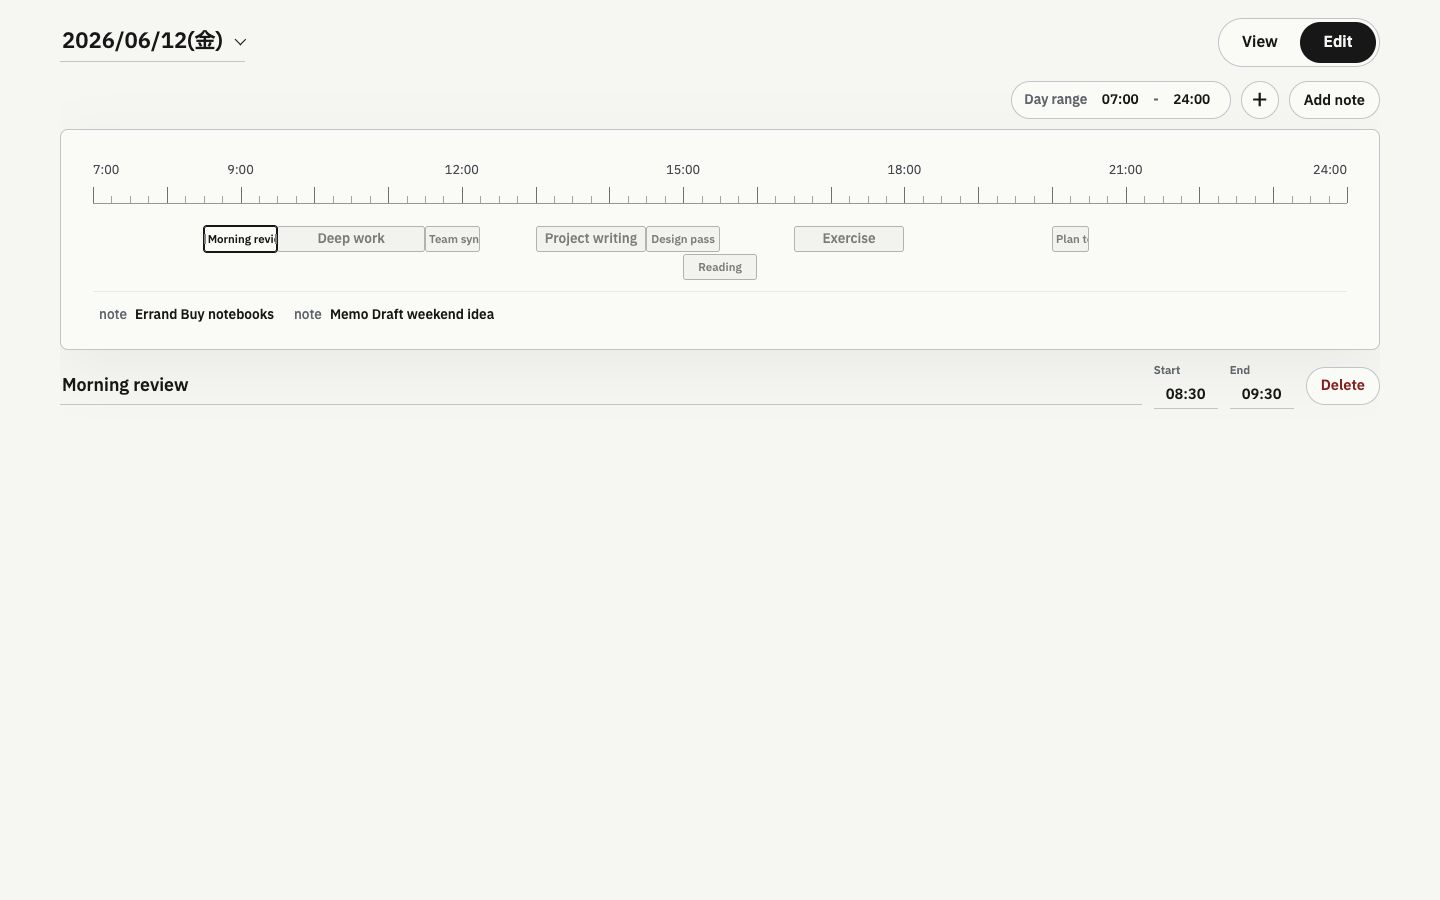
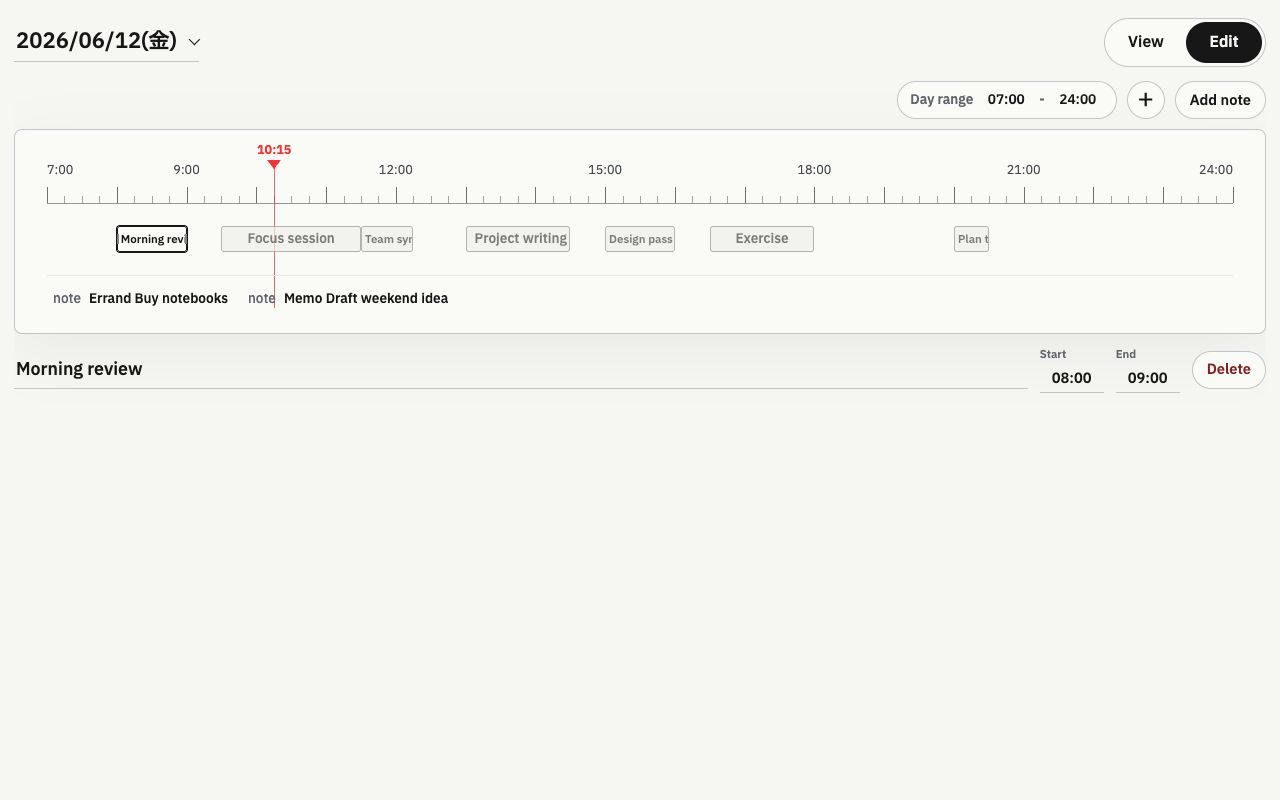
Update demo screenshots

diff --git a/app.js b/app.js
@@ -2,6 +2,7 @@ const STORAGE_KEY = "schedule-for-the-day:fallback:v3";
 const MINUTES_IN_DAY = 1440;
 const SNAP = 5;
 const DEFAULT_DAY_RANGE = { start: 420, end: 1440 };
+const MOCK_NOW = readMockNow();
 
 const els = {
   dateButton: document.querySelector("#dateButton"),
@@ -51,7 +52,7 @@ let saveTimer = null;
 let loadToken = 0;
 
 function defaultState() {
-  const today = toDateInputValue(new Date());
+  const today = toDateInputValue(nowDate());
   return {
     date: today,
     mode: "view",
@@ -73,7 +74,7 @@ function defaultState() {
   };
 }
 
-function emptyDay(date = toDateInputValue(new Date())) {
+function emptyDay(date = toDateInputValue(nowDate())) {
   return {
     date,
     mode: state?.mode ?? "view",
@@ -150,7 +151,7 @@ async function loadDay(date, seedIfEmpty = false) {
 
   if (token !== loadToken) return;
 
-  if (seedIfEmpty && nextState.items.length === 0 && date === toDateInputValue(new Date())) {
+  if (seedIfEmpty && nextState.items.length === 0 && date === toDateInputValue(nowDate())) {
     nextState = normalizeState({ ...defaultState(), mode: state.mode });
   }
 
@@ -621,12 +622,23 @@ function sortedEvents() {
 }
 
 function isSelectedDateToday() {
-  return state.date === toDateInputValue(new Date());
+  return state.date === toDateInputValue(nowDate());
 }
 
 function currentMinutes() {
-  const now = new Date();
+  const now = nowDate();
   return now.getHours() * 60 + now.getMinutes();
+}
+
+function nowDate() {
+  return MOCK_NOW ? new Date(MOCK_NOW) : new Date();
+}
+
+function readMockNow() {
+  const value = new URLSearchParams(window.location.search).get("mockNow");
+  if (!value) return null;
+  const parsed = new Date(value);
+  return Number.isNaN(parsed.getTime()) ? null : parsed.toISOString();
 }
 
 function toDateInputValue(date) {
@@ -711,7 +723,7 @@ els.editModeBtn.addEventListener("click", () => {
 });
 
 els.dateInput.addEventListener("change", () => {
-  const nextDate = els.dateInput.value || toDateInputValue(new Date());
+  const nextDate = els.dateInput.value || toDateInputValue(nowDate());
   loadDay(nextDate);
 });
 
